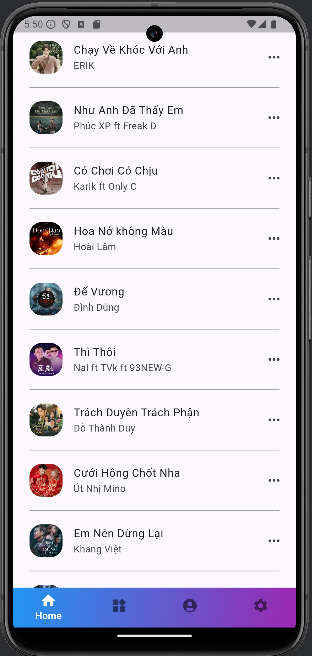
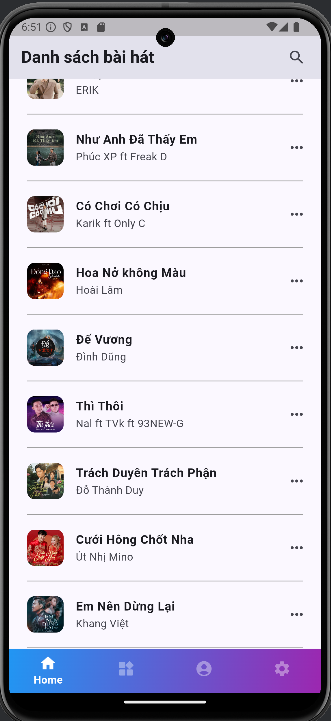
update

diff --git a/lib/ui/playing/playing.dart b/lib/ui/playing/playing.dart
@@ -1,11 +1,9 @@
 import 'dart:math';
-
 import 'package:audio_video_progress_bar/audio_video_progress_bar.dart';
 import 'package:flutter/cupertino.dart';
 import 'package:flutter/material.dart';
 import 'package:just_audio/just_audio.dart';
 import 'package:music_app/ui/playing/player_manager.dart';
-
 import '../../data/model/song.dart';
 
 class NowPlaying extends StatelessWidget {
@@ -63,8 +61,8 @@ class _NowPlayingPageState extends State<NowPlayingPage>
     final radius = (screenWidth - delta) / 2;
     return CupertinoPageScaffold(
         navigationBar: CupertinoNavigationBar(
-          padding: const EdgeInsetsDirectional.only(top: 10),
-          middle: const Text('Now Playing'),
+          middle: const Text('Now Playing',
+              style: TextStyle(fontWeight: FontWeight.bold, fontSize: 18)),
           trailing: IconButton(
             onPressed: () {},
             icon: const Icon(Icons.more_horiz),
@@ -75,10 +73,14 @@ class _NowPlayingPageState extends State<NowPlayingPage>
             child: Column(
               mainAxisAlignment: MainAxisAlignment.center,
               children: [
-                Text(_song.album),
-                const SizedBox(height: 16),
+                const SizedBox(height: 10),
+                Text(
+                  _song.album,
+                  style: const TextStyle(fontWeight: FontWeight.w500, fontSize: 15),
+                ),
+                const SizedBox(height: 5),
                 const Text('_ ___ _'),
-                const SizedBox(height: 48),
+                const SizedBox(height: 60),
                 RotationTransition(
                   turns: Tween(begin: 0.0, end: 1.0).animate(_imageAnimController),
                   child: ClipRRect(
@@ -110,14 +112,13 @@ class _NowPlayingPageState extends State<NowPlayingPage>
                             color: Colors.deepPurple),
                         Column(
                           children: [
-                            Text(_song.title),
+                            Text(_song.title,
+                                style: const TextStyle(
+                                    fontWeight: FontWeight.w700, fontSize: 16)),
                             const SizedBox(height: 5),
-                            Text(
-                              _song.artist,
-                              style: Theme.of(context).textTheme.bodyMedium!.copyWith(
-                                    color: Theme.of(context).textTheme.bodyMedium!.color,
-                                  ),
-                            ),
+                            Text(_song.artist,
+                                style: const TextStyle(
+                                    fontWeight: FontWeight.w400, fontSize: 14)),
                           ],
                         ),
                         IconButton(
@@ -129,19 +130,12 @@ class _NowPlayingPageState extends State<NowPlayingPage>
                   ),
                 ),
                 Padding(
-                  padding: const EdgeInsets.only(
-                    top: 32,
-                    left: 24,
-                    right: 24,
-                    bottom: 16,
-                  ),
+                  padding:
+                      const EdgeInsets.only(top: 32, left: 24, right: 24, bottom: 16),
                   child: _progressBar(),
                 ),
                 Padding(
-                  padding: const EdgeInsets.only(
-                    left: 24,
-                    right: 24,
-                  ),
+                  padding: const EdgeInsets.only(left: 24, right: 24),
                   child: _mediaButtons(),
                 ),
               ],
@@ -204,10 +198,10 @@ class _NowPlayingPageState extends State<NowPlayingPage>
             barHeight: 5.0,
             barCapShape: BarCapShape.round,
             baseBarColor: Colors.grey.withOpacity(0.3),
-            progressBarColor: Colors.blue,
+            progressBarColor: Colors.blue.withOpacity(0.5),
             bufferedBarColor: Colors.grey.withOpacity(0.3),
             thumbColor: Colors.deepPurple,
-            thumbGlowColor: Colors.blueGrey.withOpacity(0.3),
+            thumbGlowColor: Colors.blue.withOpacity(0.3),
             thumbRadius: 10.0,
           );
         });
@@ -225,8 +219,8 @@ class _NowPlayingPageState extends State<NowPlayingPage>
           _pauseAnim();
           return Container(
             margin: const EdgeInsets.all(8),
-            width: 48,
-            height: 48,
+            width: 60,
+            height: 60,
             child: const CircularProgressIndicator(),
           );
         } else if (playing != true) {
@@ -235,9 +229,9 @@ class _NowPlayingPageState extends State<NowPlayingPage>
                 // start or resume animation
                 _audioPlayerManager.player.play();
               },
-              icon: Icons.play_arrow,
+              icon: Icons.play_circle_outline,
               color: Colors.deepPurple,
-              size: 48);
+              size: 60);
         } else if (processingState != ProcessingState.completed) {
           _playAnim();
           return MediaButtonControl(
@@ -245,9 +239,9 @@ class _NowPlayingPageState extends State<NowPlayingPage>
                 _audioPlayerManager.player.pause();
                 _pauseAnim();
               },
-              icon: Icons.pause,
+              icon: Icons.pause_circle_outline,
               color: Colors.deepPurple,
-              size: 48);
+              size: 60);
         } else {
           if (processingState == ProcessingState.completed) {
             _stopAnim();
@@ -258,9 +252,9 @@ class _NowPlayingPageState extends State<NowPlayingPage>
                 _resetAnim();
                 _audioPlayerManager.player.seek(Duration.zero);
               },
-              icon: Icons.replay,
-              color: null,
-              size: 48);
+              icon: Icons.replay_circle_filled,
+              color: Colors.deepPurple,
+              size: 60);
         }
       },
     );
@@ -398,7 +392,7 @@ class _MediaButtonControlState extends State<MediaButtonControl> {
       onPressed: widget.function,
       icon: Icon(widget.icon),
       iconSize: widget.size,
-      color: widget.color ?? Theme.of(context).colorScheme.primary,
+      color: widget.color ?? Colors.deepPurple,
     );
   }
 }

diff --git a/lib/ui/home_tab/home_tab.dart b/lib/ui/home_tab/home_tab.dart
@@ -33,6 +33,11 @@ class _HomeTabState extends State<HomeTab> {
   Widget build(BuildContext context) {
     return SafeArea(
         child: Scaffold(
+      appBar: AppBar(
+        title: const Text('Danh sách bài hát',
+            style: TextStyle(fontWeight: FontWeight.bold, fontSize: 22)),
+        actions: const [Icon(Icons.search), Padding(padding: EdgeInsets.only(right: 20))],
+      ),
       body: getBody(),
     ));
   }
@@ -40,16 +45,10 @@ class _HomeTabState extends State<HomeTab> {
   Widget getBody() {
     bool showLoading = songs.isEmpty;
     if (showLoading) {
-      return getProgressBar();
+      return const Center(child: CircularProgressIndicator());
     } else {
       return getListView();
     }
-  }
-
-  Widget getProgressBar() {
-    return const Center(
-      child: CircularProgressIndicator(),
-    );
   }
 
   Widget getListView() {
@@ -96,7 +95,6 @@ class _HomeTabState extends State<HomeTab> {
                     mainAxisAlignment: MainAxisAlignment.center,
                     mainAxisSize: MainAxisSize.min,
                     children: <Widget>[
-                      const Text('Modal Bottom Sheet'),
                       ElevatedButton(
                         onPressed: () => Navigator.pop(context),
                         child: const Text('Close Bottom Sheet'),
@@ -110,10 +108,7 @@ class _HomeTabState extends State<HomeTab> {
 
   void navigate(Song song) {
     Navigator.push(context, CupertinoPageRoute(builder: (context) {
-      return NowPlaying(
-        songs: songs,
-        playingSong: song,
-      );
+      return NowPlaying(songs: songs, playingSong: song);
     }));
   }
 }
@@ -132,7 +127,7 @@ class _SongItemSection extends StatelessWidget {
     return ListTile(
       contentPadding: const EdgeInsets.only(left: 24, right: 8),
       leading: ClipRRect(
-        borderRadius: BorderRadius.circular(18),
+        borderRadius: BorderRadius.circular(10),
         child: FadeInImage.assetNetwork(
             placeholder: 'assets/music.png',
             width: 48,
@@ -146,17 +141,17 @@ class _SongItemSection extends StatelessWidget {
               );
             }),
       ),
-      title: Text(song.title),
-      subtitle: Text(song.artist),
-      trailing: IconButton(
-        icon: const Icon(Icons.more_horiz),
-        onPressed: () {
-          parent.showBottomSheet();
-        },
-      ),
+      title: Text(song.title,
+          style: const TextStyle(fontSize: 16, fontWeight: FontWeight.bold)),
+      subtitle: Text(song.artist, style: const TextStyle(fontSize: 14)),
       onTap: () {
         parent.navigate(song);
       },
+      trailing: IconButton(
+          icon: const Icon(Icons.more_horiz),
+          onPressed: () {
+            parent.showBottomSheet();
+          }),
     );
   }
 }

diff --git a/lib/ui/app.dart b/lib/ui/app.dart
@@ -44,7 +44,7 @@ class _AppState extends State<App> {
           elevation: 0,
           currentIndex: currentPageIndex,
           selectedItemColor: Colors.white,
-          unselectedItemColor: Colors.black54,
+          unselectedItemColor: Colors.white38,
           selectedLabelStyle: const TextStyle(fontWeight: FontWeight.bold),
           items: const [
             BottomNavigationBarItem(icon: Icon(Icons.home), label: 'Home'),
